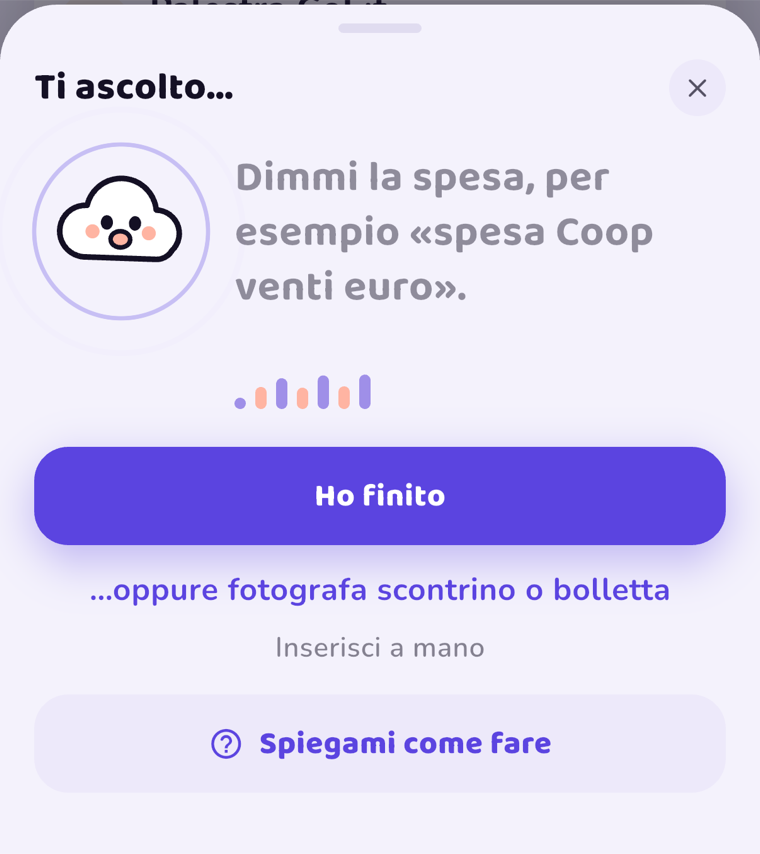
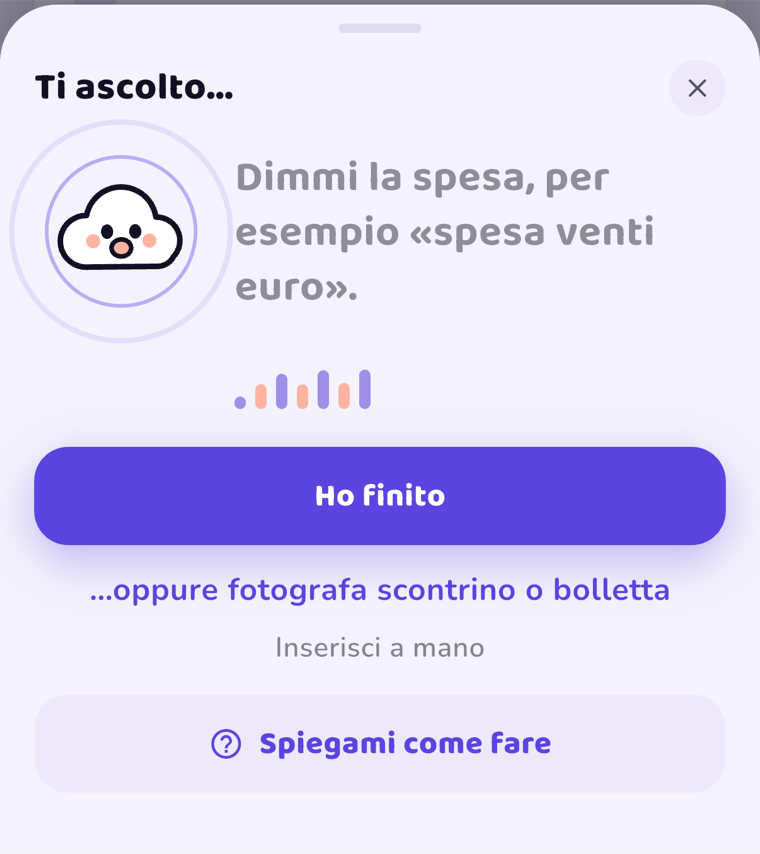
Manuale con immagini e icone; via le Domande dalla home
- Ogni passo del manuale ha lo screenshot della schermata e, nel testo,
  le icone della barra e dell'header. Cinque screenshot nuovi (Scrivi,
  Foto, Analisi, Profilo, Tutte le spese), dettatura rifatta senza Coop.
- Le Domande della home ripetevano l'Assistenza: tolte. Le tre che non
  c'erano (dettatura sempre in ascolto, serve internet, funzioni a
  pagamento) sono passate nell'Assistenza; il link «Domande» porta lì.

diff --git a/index.html b/index.html
@@ -252,6 +252,12 @@ nav a:hover { color: var(--violet); }
 .manual p { margin-top: 8px; }
 .manual ol { margin: 8px 0 0 18px; padding: 0; display: flex; flex-direction: column; gap: 4px; }
 .manual b { color: var(--ink); font-weight: 800; }
+.manual figure { margin: 14px 0 0; border-radius: 18px; overflow: hidden; border: 1px solid var(--violet-line); background: var(--ground); }
+.manual figure img { display: block; width: 100%; height: auto; }
+.manual figure.tall img { max-height: 420px; object-fit: cover; object-position: top; }
+.ic { display: inline-flex; align-items: center; justify-content: center; width: 22px; height: 22px; border-radius: 50%; background: var(--violet-soft); color: var(--violet); vertical-align: -5px; margin: 0 2px; }
+.ic svg { width: 13px; height: 13px; }
+.ic.sq { border-radius: 7px; background: var(--surface); border: 1px solid var(--violet-line); }
 
 /* domande */
 .faq { margin-top: 30px; display: grid; gap: 18px 40px; grid-template-columns: repeat(auto-fit, minmax(min(100%, 340px), 1fr)); }
@@ -290,7 +296,7 @@ footer ul { display: flex; gap: 22px; flex-wrap: wrap; }
         <li><a href="supporto.html">Assistenza</a></li>
         <li><a href="#costi">Quanto costa</a></li>
         <li><a href="#manuale">Manuale</a></li>
-        <li><a href="#domande">Domande</a></li>
+        <li><a href="supporto.html">Domande</a></li>
       </ul>
     </nav>
   </div>
@@ -307,7 +313,7 @@ footer ul { display: flex; gap: 22px; flex-wrap: wrap; }
           <svg width="19" height="19" viewBox="0 0 24 24" aria-hidden="true" fill="currentColor"><path d="M16.4 12.7c0-2.5 2-3.7 2.1-3.8-1.2-1.7-3-1.9-3.6-2-1.5-.2-3 .9-3.8.9-.8 0-2-.9-3.3-.8-1.7 0-3.3 1-4.1 2.5-1.8 3.1-.5 7.6 1.3 10.1.9 1.2 1.9 2.6 3.2 2.5 1.3-.1 1.8-.8 3.3-.8s2 .8 3.3.8c1.4 0 2.3-1.2 3.1-2.5 1-1.4 1.4-2.8 1.4-2.9 0 0-2.8-1.1-2.9-4zM14 5.3c.7-.8 1.2-2 1-3.1-1 0-2.2.7-2.9 1.5-.6.7-1.2 1.9-1 3 1.1.1 2.2-.6 2.9-1.4z"/></svg>
           Scarica su App Store
         </a>
-        <a class="btn btn-ghost" href="#domande">Come funziona</a>
+        <a class="btn btn-ghost" href="#come-funziona">Come funziona</a>
       </div>
       <div class="trust meta">
         <span>Senza account</span><span class="dot"></span>
@@ -561,92 +567,61 @@ footer ul { display: flex; gap: 22px; flex-wrap: wrap; }
       </div>
       <div>
         <h3><span class="num">2</span>La barra in basso</h3>
-        <p>Al centro i tre modi per registrare una spesa, tutti alla pari: <b>Scrivi</b>, <b>Detta</b>, <b>Foto</b>. Ai lati <b>Home</b> e <b>Analisi</b>. In alto a destra nella Home: la tazzina per le mance, la «i» di «Info» che spiega come funziona Nuvo, e il tuo profilo.</p>
+        <p>Al centro i tre modi per registrare una spesa, tutti alla pari: <span class="ic" aria-hidden="true"><svg viewBox="0 0 24 24" fill="none" stroke="currentColor" stroke-width="2.4" stroke-linecap="round" stroke-linejoin="round"><path d="M3 21l.6-3.6L17 4l3 3L6.6 20.4z"/></svg></span><b>Scrivi</b>, <span class="ic" aria-hidden="true"><svg viewBox="0 0 24 24" fill="none" stroke="currentColor" stroke-width="2.4" stroke-linecap="round" stroke-linejoin="round"><rect x="9" y="2.5" width="6" height="11.5" rx="3"/><path d="M5 11a7 7 0 0 0 14 0M12 18v3"/></svg></span><b>Detta</b>, <span class="ic" aria-hidden="true"><svg viewBox="0 0 24 24" fill="none" stroke="currentColor" stroke-width="2.4" stroke-linecap="round" stroke-linejoin="round"><rect x="3" y="6" width="18" height="13" rx="3.5"/><circle cx="12" cy="12.5" r="3.4"/></svg></span><b>Foto</b>. Ai lati <b>Home</b> e <b>Analisi</b>. In alto a destra nella Home: <span class="ic sq" aria-hidden="true"><svg viewBox="0 0 24 24" fill="none" stroke="currentColor" stroke-width="2.2" stroke-linecap="round" stroke-linejoin="round"><path d="M4 8h12v6a5 5 0 0 1-5 5H9a5 5 0 0 1-5-5zM16 9h2.5a2.5 2.5 0 0 1 0 5H16"/></svg></span> la tazzina per le mance, <span class="ic sq" aria-hidden="true"><svg viewBox="0 0 24 24" fill="none" stroke="currentColor" stroke-width="2.2" stroke-linecap="round"><circle cx="12" cy="12" r="9"/><path d="M12 11v5"/><circle cx="12" cy="7.6" r="1.1" fill="currentColor" stroke="none"/></svg></span> la «i» di «Info» che spiega come funziona Nuvo, e <span class="ic sq" aria-hidden="true"><svg viewBox="0 0 24 24" fill="none" stroke="currentColor" stroke-width="2.2" stroke-linecap="round"><circle cx="12" cy="8.3" r="3.9"/><path d="M4.8 20.5q0-5.9 7.2-5.9t7.2 5.9"/></svg></span> il tuo profilo.</p>
+        <figure><img src="img/barra.png" alt="La barra in basso di Nuvo: Home, Scrivi, Detta, Foto, Analisi" loading="lazy"></figure>
       </div>
       <div>
         <h3><span class="num">3</span>Dettare una spesa</h3>
         <ol>
-          <li>Tocca <b>Detta</b> e di' cosa e quanto: «spesa ventidue euro», «farmacia 18 e 50».</li>
+          <li>Tocca <span class="ic" aria-hidden="true"><svg viewBox="0 0 24 24" fill="none" stroke="currentColor" stroke-width="2.4" stroke-linecap="round" stroke-linejoin="round"><rect x="9" y="2.5" width="6" height="11.5" rx="3"/><path d="M5 11a7 7 0 0 0 14 0M12 18v3"/></svg></span><b>Detta</b> e di' cosa e quanto: «spesa ventidue euro», «farmacia 18 e 50».</li>
           <li>Puoi aggiungere la data («ieri», «sabato scorso», «il 3 agosto»), la ricorrenza («Netflix 12,90 al mese») o la valuta («ottanta franchi»).</li>
           <li>Tocca <b>Ho finito</b>: Nuvo ti mostra la spesa compilata, tu controlli e salvi.</li>
         </ol>
         <p>Una spesa alla volta. Se Nuvo sbaglia la categoria, correggila nella conferma: la volta dopo se ne ricorda.</p>
+        <figure><img src="img/dettatura.png" alt="La scheda di ascolto: Nuvo ti ascolta, il bottone Ho finito e i collegamenti per la foto e per scrivere a mano" loading="lazy"></figure>
       </div>
       <div>
         <h3><span class="num">4</span>Fotografare uno scontrino</h3>
         <ol>
-          <li>Tocca <b>Foto</b>, poi scatta o scegli un'immagine dalla galleria.</li>
+          <li>Tocca <span class="ic" aria-hidden="true"><svg viewBox="0 0 24 24" fill="none" stroke="currentColor" stroke-width="2.4" stroke-linecap="round" stroke-linejoin="round"><rect x="3" y="6" width="18" height="13" rx="3.5"/><circle cx="12" cy="12.5" r="3.4"/></svg></span><b>Foto</b>, poi scatta o scegli un'immagine dalla galleria.</li>
           <li>Nuvo legge il documento sul telefono e trova il totale, anche su bollette e fatture.</li>
           <li>Controlla la scheda compilata e salva. La foto resta allegata alla spesa.</li>
         </ol>
+        <figure><img src="img/foto.png" alt="La scheda Scontrino o bolletta con i bottoni Scatta la foto e Scegli dalla galleria" loading="lazy"></figure>
       </div>
       <div>
         <h3><span class="num">5</span>Scrivere una spesa</h3>
-        <p>Tocca <b>Scrivi</b>: inserisci cosa e quanto, scegli la valuta se diversa dalla tua, la data e la categoria dalla griglia di icone. L'interruttore <b>Spesa ricorrente</b> la ripete ogni mese (o ogni 2, 3, 6, 12). È la stessa scheda che compare dopo la dettatura e la foto.</p>
+        <p>Tocca <span class="ic" aria-hidden="true"><svg viewBox="0 0 24 24" fill="none" stroke="currentColor" stroke-width="2.4" stroke-linecap="round" stroke-linejoin="round"><path d="M3 21l.6-3.6L17 4l3 3L6.6 20.4z"/></svg></span><b>Scrivi</b>: inserisci cosa e quanto, scegli la valuta se diversa dalla tua, la data e la categoria dalla griglia di icone. L'interruttore <b>Spesa ricorrente</b> la ripete ogni mese (o ogni 2, 3, 6, 12). È la stessa scheda che compare dopo la dettatura e la foto.</p>
+        <figure class="tall"><img src="img/scrivi.png" alt="La scheda Nuova spesa: campi Cosa, Importo, Valuta, Quando, la griglia delle categorie con le icone e l'interruttore Spesa ricorrente" loading="lazy"></figure>
       </div>
       <div>
         <h3><span class="num">6</span>Il credito del mese</h3>
         <p>Tocca la card del credito nella Home per vedere le <b>entrate</b> del mese e aggiungerne con <b>+ Entrata</b>: stipendio, rimborsi, extra. Un'entrata ricorrente torna da sola ogni mese. L'anello mostra quanto resta, e Nuvo cambia umore quando il residuo si assottiglia.</p>
+        <figure><img src="img/credito.png" alt="La scheda del credito: il totale del mese, il bottone + Entrata e l'elenco delle entrate" loading="lazy"></figure>
       </div>
       <div>
         <h3><span class="num">7</span>Categorie e tetti</h3>
         <p>Da <b>Budget</b> vedi tutte le categorie. Tocca una categoria per aprirne la scheda: le spese del mese e il tetto, che puoi impostare o modificare. <b>Nuova categoria</b> ti fa scegliere nome, colore, icona, parole che la richiamano e tetto. Scorri una card a sinistra per <b>archiviarla</b>: le sue spese restano nei conti, e la ritrovi in fondo sotto «Archiviate».</p>
+        <figure><img src="img/budget.png" alt="La sezione Budget della Home con le card delle categorie e la tile Nuova categoria" loading="lazy"></figure>
       </div>
       <div>
         <h3><span class="num">8</span>Rivedere e correggere</h3>
         <p>In <b>Ultime spese</b> e in <b>Tutte le spese</b> tocchi una riga per modificarla o eliminarla. Puoi cambiare mese, e filtrare per <b>Ricorrenti</b> o per <b>Categoria</b>. Le ricorrenti si gestiscono dalla loro sezione: si mettono in pausa con l'interruttore o si modificano toccandole.</p>
+        <figure class="tall"><img src="img/spese.png" alt="Tutte le spese del mese raggruppate per giorno, con il selettore del mese e i filtri Tutte, Ricorrenti e Categoria" loading="lazy"></figure>
       </div>
       <div>
         <h3><span class="num">9</span>Analisi e risparmi</h3>
         <p>In <b>Analisi</b> scegli il mese e vedi credito, speso, residuo, l'andamento giorno per giorno e le categorie a confronto con i tetti. <b>I risparmi</b>, nella Home, sommano quello che è avanzato dai mesi chiusi: i mesi in positivo aggiungono, quelli sforati tolgono.</p>
+        <figure class="tall"><img src="img/analisi.png" alt="La schermata Analisi: speso, credito e residuo, le barre delle categorie e l'andamento giorno per giorno" loading="lazy"></figure>
       </div>
       <div>
         <h3><span class="num">10</span>Profilo e impostazioni</h3>
         <p>Dal profilo cambi <b>lingua</b>, <b>valuta</b> e nome, attivi i <b>promemoria</b> e il blocco con <b>Face ID o impronta</b>. Sotto <b>Backup</b>: salva un backup da portare su un altro telefono, esporta spese ed entrate in CSV, ripristina da un backup. <b>Parti da zero</b> cancella tutto.</p>
+        <figure class="tall"><img src="img/profilo.png" alt="Il profilo: credito mensile, Sostieni Nuvo, Aiuto e Impostazioni" loading="lazy"></figure>
       </div>
       <div>
         <h3><span class="num">11</span>Se qualcosa non torna</h3>
         <p>Nel profilo, sotto <b>Aiuto</b>, trovi questo sito e <b>Scrivi all'assistenza</b>: si apre la Posta con una mail già compilata con modello, sistema e versione di Nuvo. Aggiungi cosa è successo e invia.</p>
-      </div>
-    </div>
-  </div>
-</section>
-
-<section id="domande">
-  <div class="wrap">
-    <h2>Domande</h2>
-    <div class="faq">
-      <div>
-        <h3>Devo parlare in un modo preciso?</h3>
-        <p>Basta cosa e quanto, anche dentro una frase normale: «oggi dal dentista ho speso 350 euro». Nuvo registra una spesa alla volta, però: ne dici, fotografi o scrivi una, salvi e ripeti.</p>
-      </div>
-      <div>
-        <h3>Posso decidere io i tetti di spesa?</h3>
-        <p>Sì: crei le categorie che vuoi, con nome, colore e tetto mensile, e li cambi quando serve. Le categorie che non usi più si archiviano, così lo storico conserva i nomi.</p>
-      </div>
-      <div>
-        <h3>Ci sono funzioni a pagamento?</h3>
-        <p>No. Tutto quello che c'è nell'app è incluso; la mancia è solo un modo di dire grazie.</p>
-      </div>
-      <div>
-        <h3>Serve internet?</h3>
-        <p>No, tranne che per i tassi di cambio: servono solo se registri spese in una valuta diversa dalla tua o se cambi la valuta di base. Tutto il resto funziona in aereo.</p>
-      </div>
-      <div>
-        <h3>E se cambio telefono?</h3>
-        <p>Salvi un backup dalle impostazioni (spese, foto e impostazioni in un file) e lo ripristini sul telefono nuovo. Senza account, il passaggio lo fai tu: nessuno tiene una copia al posto tuo.</p>
-      </div>
-      <div>
-        <h3>La dettatura ascolta sempre?</h3>
-        <p>No: il microfono si accende quando tocchi «Detta» e si spegne appena hai finito. Il permesso lo chiedo la prima volta che detti davvero, non all'avvio.</p>
-      </div>
-      <div>
-        <h3>Qualcosa non funziona?</h3>
-        <p>La pagina di <a href="supporto.html">assistenza</a> raccoglie le soluzioni ai problemi più comuni (permessi, dettatura, scontrini letti male, backup) e l'indirizzo a cui scrivermi.</p>
-      </div>
-      <div>
-        <h3>Su quali telefoni funziona?</h3>
-        <p>Su iPhone, dall'<a href="https://apps.apple.com/it/app/id6805154051" rel="noopener">App Store</a>. La versione Android nasce dalla stessa base di codice ed è in lavorazione: arriverà su Google Play.</p>
       </div>
     </div>
   </div>
@@ -681,7 +656,7 @@ footer ul { display: flex; gap: 22px; flex-wrap: wrap; }
         <li><a href="supporto.html">Assistenza</a></li>
         <li><a href="privacy.html">Privacy</a></li>
         <li><a href="#manuale">Manuale</a></li>
-        <li><a href="#domande">Domande</a></li>
+        <li><a href="supporto.html">Domande</a></li>
         <li><a href="#costi">Sostieni l'app</a></li>
         <li><a href="mailto:nuvo.app.it@gmail.com">Scrivimi</a></li>
       </ul>

diff --git a/supporto.html b/supporto.html
@@ -244,6 +244,9 @@ figcaption { margin-top: 8px; font: 600 12.5px/1.45 Nunito, sans-serif; color: v
     </figure>
     <p>Basta dire <strong>cosa</strong> e <strong>quanto</strong>: «Spesa 22 euro», «benzina 40 euro», «dentista 350 euro». Funziona anche dentro una frase intera, come «oggi ho fatto la spesa al supermercato e ho speso 22 euro».</p>
 
+    <h3>La dettatura ascolta sempre?</h3>
+    <p>No: il microfono si accende quando tocchi <strong>Detta</strong> e si spegne appena hai finito. Il permesso lo chiediamo la prima volta che detti davvero, non all'avvio.</p>
+
     <h3>Il microfono non parte, o non sente niente</h3>
     <p>Per trascrivere, <span class="nuvo">Nuvo</span> ha bisogno di due permessi del telefono: microfono e riconoscimento vocale. Li chiede la prima volta che detti davvero. Se li hai negati il telefono non li richiede più, e vanno riattivati a mano: apri le <strong>Impostazioni del telefono</strong>, cerca <strong>Nuvo</strong> nell'elenco delle app e riaccendi le due voci.</p>
     <p>Se i permessi ci sono ma la trascrizione resta vuota, probabilmente manca il pacchetto vocale della tua lingua. Su iPhone si scarica da Impostazioni → Generali → Tastiera → Dettatura. Quando c'è, la trascrizione avviene sul telefono: è più rapida e funziona anche senza rete.</p>
@@ -332,6 +335,9 @@ figcaption { margin-top: 8px; font: 600 12.5px/1.45 Nunito, sans-serif; color: v
     <p>In Impostazioni, sotto <strong>Dati</strong>, la voce <strong>Parti da zero</strong> svuota l'archivio e ti riporta all'inizio. Accanto c'è <strong>Ricarica i dati demo</strong>, che riempie l'app di spese di esempio per farci un giro senza toccare le tue.</p>
     <p>Se disinstalli l'app, database e foto vengono eliminati con lei: non resta niente sul telefono, e altrove non c'era già prima.</p>
 
+    <h3>Serve internet?</h3>
+    <p>No, tranne che per i tassi di cambio: servono solo se registri spese in una valuta diversa dalla tua o se cambi la valuta di base. Tutto il resto funziona in aereo.</p>
+
     <h2 id="avvisi">Promemoria e sicurezza</h2>
 
     <h3>Non ricevo nessun promemoria</h3>
@@ -350,6 +356,9 @@ figcaption { margin-top: 8px; font: 600 12.5px/1.45 Nunito, sans-serif; color: v
 
     <h3>Come arrivano gli aggiornamenti</h3>
     <p>Dall'App Store, come per ogni app: con gli aggiornamenti automatici attivi la nuova versione si installa da sola, altrimenti la trovi nella scheda Aggiornamenti. I tuoi dati restano dove sono: un aggiornamento non li tocca mai.</p>
+
+    <h3>Ci sono funzioni a pagamento?</h3>
+    <p>No. Tutto quello che c'è nell'app è incluso; la mancia è solo un modo di dire grazie.</p>
 
     <h3>Come segnalo un problema</h3>
     <p>Dal Profilo, tocca <strong>Scrivi all'assistenza</strong>: si apre la Posta con una mail già compilata, che in fondo riporta modello del telefono, versione del sistema e versione di <span class="nuvo">Nuvo</span>. Aggiungi cosa è successo, se puoi uno screenshot, e invia. Va benissimo anche una email scritta a mano, se preferisci.</p>
@@ -378,7 +387,7 @@ figcaption { margin-top: 8px; font: 600 12.5px/1.45 Nunito, sans-serif; color: v
     <nav aria-label="Link di chiusura">
       <ul>
         <li><a href="index.html">Sito</a></li>
-        <li><a href="index.html#domande">Domande</a></li>
+        <li><a href="supporto.html">Domande</a></li>
         <li><a href="mailto:nuvo.app.it@gmail.com">Scrivimi</a></li>
       </ul>
     </nav>

diff --git a/privacy.html b/privacy.html
@@ -232,7 +232,7 @@ footer ul { display: flex; gap: 22px; list-style: none; padding: 0; margin: 0; f
       <ul>
         <li><a href="index.html">Sito</a></li>
         <li><a href="supporto.html">Assistenza</a></li>
-        <li><a href="index.html#domande">Domande</a></li>
+        <li><a href="supporto.html">Domande</a></li>
         <li><a href="mailto:nuvo.app.it@gmail.com">Scrivimi</a></li>
       </ul>
     </nav>
